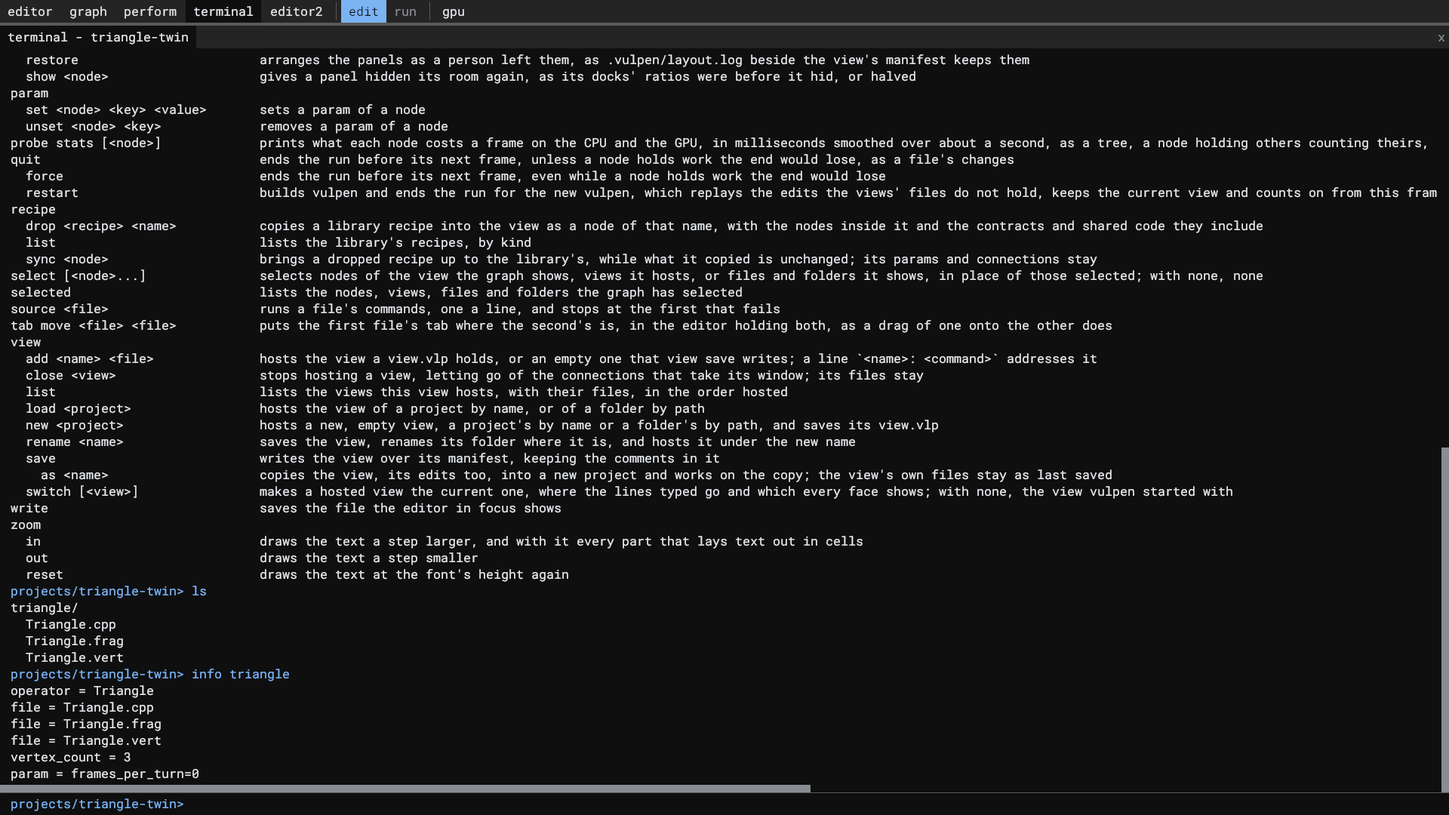
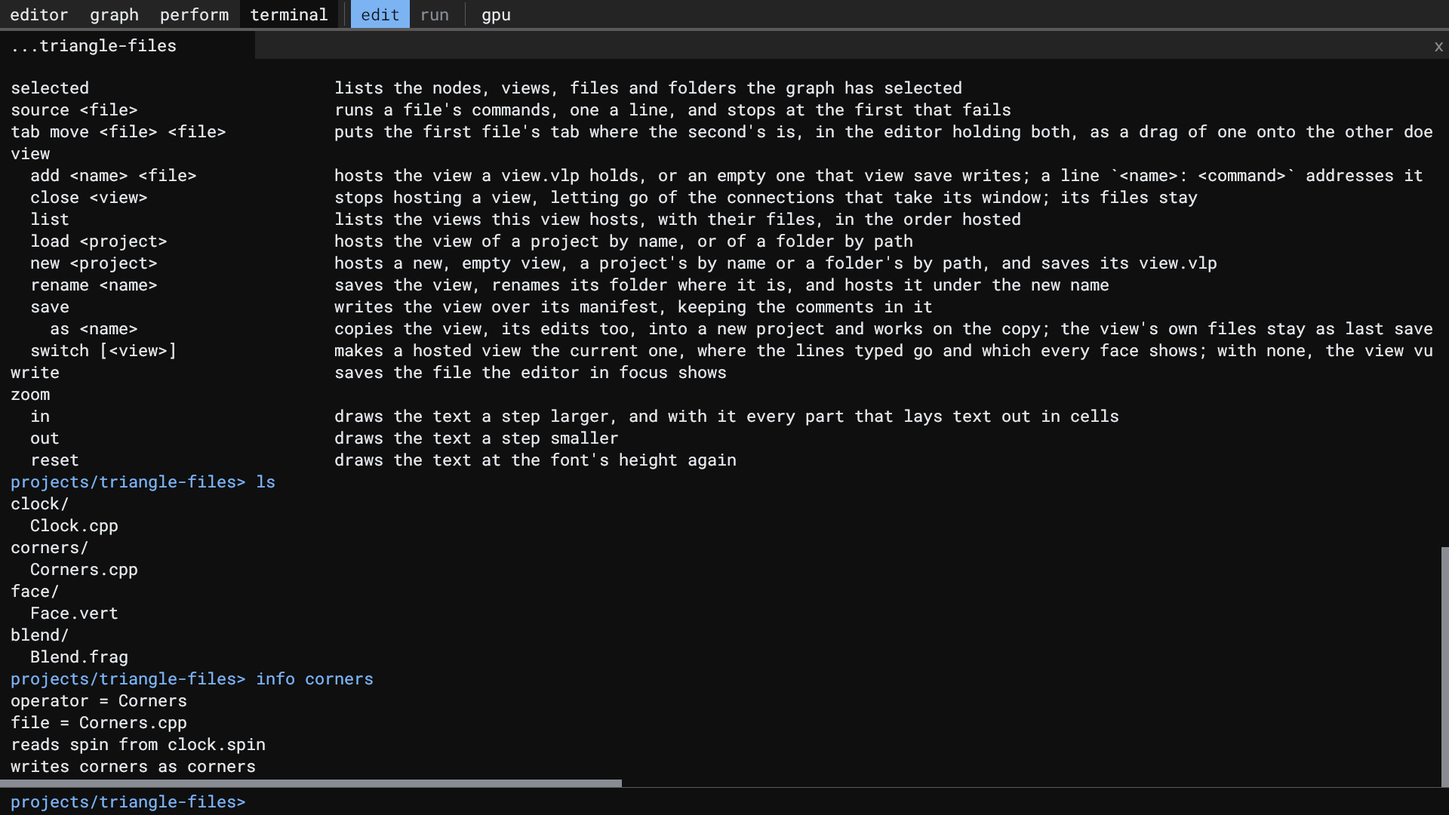
readme: the cinematic design, with a dive through Vulpen's own graph
The README leads with a wide cover of the ide, a node's C++ beside its
project's graph and what it draws, then three tiles, the graph, a shader
and the terminal, a quick start with what Vulpen needs, and the
language, the ide, the cli, building and testing, the details folded
away. A dive through the repository in the graph, eight levels in one
animated PNG, shows that the graph opens any folder. Its pictures are
four runs of update-readme-images.py, each at the size and text zoom
that read in GitHub's column: 2400 by 860 for the cover and the dive,
1200 by 1200 for the tiles, 1920 by 1080 for the rest; an animation's
frames show in it alone. The eleven pictures only the old README used
go. LOC.md and performance.md as the release build left them. Checked
by the debug and release builds, ctest 9 of 9 headless, the script run
a second time, which wrote nothing, and every link of the README.

Changed region(s): [[0.0, 0.0, 1.0, 1.0], [0.9688, 0.55, 1.0, 0.6722], [0.3438, 0.7028, 0.375, 0.7333]]

diff --git a/src/tools/update-readme-images.py b/src/tools/update-readme-images.py
@@ -59,7 +59,8 @@ class Run:
 
 @dataclass(frozen=True)
 class Animation:
-    """Pictures one run took, joined into an animated PNG that loops, each shown delay_ms."""
+    """Pictures one run took, joined into an animated PNG that loops, each shown delay_ms;
+    they show there alone, as no file of their own."""
     frames: tuple[str, ...]
     delay_ms: int
 
@@ -83,51 +84,87 @@ def graph(folder: str) -> list[str]:
     return [f"open {folder}", "ide: focus"]
 
 
+def zoom(steps: int) -> list[str]:
+    """The text a step larger each, 1.1 times, as control and = draw it."""
+    return ["ide: zoom in"] * steps
+
+
+def ratio(split: str, value: float) -> list[str]:
+    """The share of a dock its first half takes: ide.dock's the panels over the terminal,
+    ide.top's the editor beside the rest, ide.side's the graph over the Perform panel."""
+    return [f"ide: param set ide.{split}.split ratio {value}"]
+
+
+def panels(verb: str, *names: str) -> list[str]:
+    """panel hide, show or maximize, which a second maximize gives back, of each panel."""
+    return [f"ide: panel {verb} ide.{name}-panel" for name in names]
+
+
+def park(width: int) -> list[str]:
+    """The pointer at the menubar's empty end, so no tooltip shows for what it was over."""
+    return [f"input pointer {width - 4} 2"]
+
+
+def scroll(x: int, y: int, rows: int, width: int) -> list[str]:
+    """The wheel turned over a point of a window width pixels wide: a text scrolls down
+    by rows below 0."""
+    return [f"input pointer {x} {y}", f"input wheel 0 {rows}", *park(width)]
+
+
 CLEAR = ["input key down control", "input key down l", "input key up l",
          "input key up control"]
+INSIDE_IDE = ["ide: param unset ide.graph.relations folder", "view switch ide",
+              "ide: param set ide.graph.graph inside ide", "ide: focus"]
 # Each picture, by its file's name, and the lines that make it, from where the scene
 # before left the ide. Whatever turns is held still, and each ends with no focus, so no
 # caret blinks: the picture is the same at whatever frame it is taken. No line shows an
-# absolute path, which names the copy, a new folder each run.
-SCENES = {
-    # The whole ide: a node's C++, the project's graph, what it draws, the lines typed.
-    "ide": [*CLEAR, *typed("view load triangle-files"),
-            *typed("param set clock frames_per_turn 0"), *typed("open Corners.cpp"),
-            *typed("info corners"), "ide: zoom in", "ide: zoom in", "ide: focus"],
-    # The project presented, in the whole window.
-    "perform": ["ide: mode perform"],
-    # The manifest beside the graph it makes.
-    "manifest": ["ide: mode edit", "ide: open projects/triangle-files/view.vlp",
-                 "ide: panel hide ide.perform-panel", "ide: panel hide ide.terminal-panel",
-                 "ide: focus"],
-    # One view's C++ and GLSL, in two editors side by side.
-    "languages": ["ide: close all projects/triangle-files/view.vlp",
-                  "view load triangle-twin", "param set triangle frames_per_turn 0",
-                  "open Triangle.cpp", "open Triangle.vert",
-                  "ide: panel move ide.editor-panel ide.graph-panel left",
-                  "ide: panel hide ide.graph-panel", "ide: panel hide ide.perform-panel",
-                  "ide: focus"],
-    # The command line, as the cli runs it in a terminal.
-    "cli": ["ide: panel maximize ide.terminal-panel", "ide: focus ide.terminal.command-line",
-            *CLEAR, *typed("help"), *typed("ls"), *typed("info triangle"), "ide: focus"],
-    # The graph of each part of the repository, given the window, which a second
-    # maximize would give back.
-    "graph-repository": ["ide: panel maximize ide.graph-panel", *graph("./")],
-    "graph-src": graph("src/"),
-    "graph-baseclasses": graph("src/baseclasses/"),
-    "graph-runtime": graph("src/runtime/"),
-    "graph-library": graph("src/runtime/recipes/library/"),
-    "graph-parts": graph("src/runtime/recipes/library/parts/"),
-    "graph-components": graph("src/runtime/recipes/library/components/"),
-    "graph-tools": graph("src/tools/"),
-    "graph-projects": graph("projects/"),
-    # The apps are views too: the cli's nodes, and the ide's inside its own graph.
-    "graph-cli": ["ide: param unset ide.graph.relations folder", "view switch",
-                  "ide: param set ide.graph.graph inside cli", "ide: focus"],
-    "graph-ide": ["view switch ide", "ide: param set ide.graph.graph inside ide",
-                  "input pointer 800 520", *["input wheel 0 1"] * 6, "ide: focus"],
+# absolute path, which names the copy, a new folder each run. The sizes and the text's
+# zoom are for the README's column, about 880 pixels wide, so the text reads there.
+# The cover: a node's C++ beside the project's graph and what it draws, wide.
+HERO = {
+    "hero": [*CLEAR, *typed("view load triangle-files"),
+             *typed("param set clock frames_per_turn 0"), *typed("open Corners.cpp"),
+             *typed("info corners"), *zoom(7), *panels("hide", "terminal"),
+             *ratio("top", 0.5), *ratio("side", 0.46), *scroll(500, 400, -6, 2400),
+             "ide: focus"],
 }
-README = Pictures(IMAGES, (Run(SCENES),))
+# Three squares side by side: the graph, a shader and the terminal, each given the window.
+TILES = {
+    "tile-graph": [*CLEAR, "view load triangle-files", "param set clock frames_per_turn 0",
+                   *zoom(9), *panels("maximize", "graph"), "ide: focus"],
+    "tile-code": [*panels("maximize", "graph"), "open Face.vert",
+                  *panels("maximize", "editor"), "ide: focus"],
+    "tile-terminal": [*panels("maximize", "editor"), *panels("maximize", "terminal"),
+                      "ide: focus ide.terminal.command-line", *typed("ls"),
+                      *typed("info face"), "ide: focus"],
+}
+# The sections' pictures: the manifest beside its graph, the project in the whole window,
+# the command line, the repository's top in the graph, and the ide inside its own graph.
+DETAILS = {
+    "manifest": [*CLEAR, "view load triangle-files", "param set clock frames_per_turn 0",
+                 *zoom(5), "open", *panels("hide", "perform", "terminal"), "ide: focus"],
+    "perform": ["ide: mode perform"],
+    "cli": ["ide: mode edit", *panels("maximize", "terminal"),
+            "ide: focus ide.terminal.command-line", *CLEAR, *typed("help"), *typed("ls"),
+            *typed("info corners"), "ide: focus"],
+    "graph-repository": [*panels("maximize", "terminal", "graph"), *graph("./")],
+    "graph-ide": INSIDE_IDE,
+}
+# A dive through the repository in the graph, a level a frame, down to the part that draws
+# the graph, and the ide inside its own graph.
+DIVE = {
+    "level-0": [*zoom(4), *panels("maximize", "graph"), *graph("./")],
+    "level-1": graph("src/"),
+    "level-2": graph("src/runtime/"),
+    "level-3": graph("src/runtime/recipes/"),
+    "level-4": graph("src/runtime/recipes/library/"),
+    "level-5": graph("src/runtime/recipes/library/parts/"),
+    "level-6": graph("src/runtime/recipes/library/parts/graph/"),
+    "level-7": INSIDE_IDE,
+}
+README = Pictures(IMAGES, (Run(HERO, size="2400x860"), Run(TILES, size="1200x1200"),
+                           Run(DETAILS), Run(DIVE, size="2400x860")),
+                  {"dive": Animation(tuple(DIVE), 2200)})
 
 
 def copy_tree(into: Path) -> None:
@@ -247,8 +284,11 @@ def write(binary: Path, pictures: Pictures) -> None:
     for name, animation in pictures.animations.items():
         taken[name] = animated([taken[frame] for frame in animation.frames],
                                animation.delay_ms)
+    frames = {frame for animation in pictures.animations.values() for frame in animation.frames}
     pictures.folder.mkdir(parents=True, exist_ok=True)
     for name, data in taken.items():
+        if name in frames:
+            continue  # it shows in its animation alone
         image = pictures.folder / f"{name}.png"
         if image.exists() and image.read_bytes() == data:
             continue

diff --git a/README.md b/README.md
@@ -1,97 +1,136 @@
-# Vulpen
-<div align="center">
-<img src="docs/images/logos/vulkan.svg" alt="Vulkan" width="140" align="middle" />
-&nbsp;&nbsp;&nbsp;&nbsp;
-<img src="docs/images/logos/cmake.svg" alt="CMake" width="46"  align="middle" />
-&nbsp;&nbsp;&nbsp;&nbsp;
-<img src="docs/images/logos/cplusplus.svg" alt="C++" width="46" align="middle" />
-&nbsp;&nbsp;&nbsp;&nbsp;
-<img src="docs/images/logos/GLSL_Logo_(Unofficial).svg" alt="GLSL" width="70" align="middle" />
-</div>
+<h1 align="center">Vulpen</h1>
 
-![The Vulpen ide: a node's C++ in the editor, the project's nodes and connections in the graph, the triangle they draw in the Perform panel, and the lines typed in the terminal](docs/images/ide.png)
+<p align="center">
+  <b>Write C++ and GLSL side by side. Wire them as a graph. Change them while they run.</b><br />
+  A Vulkan engine for real-time visuals and GPU compute, whose programs are nodes and connections.
+</p>
 
-Vulpen is a fractal basis for anything that benefits from high performance computing or real-time visuals. C++ and GLSL are written side by side, without worrying about moving data from one to the other, and Vulpen attaches easily to existing projects for visual generation and parallel computation.
+<p align="center">
+  <a href="#quick-start">Quick start</a> ·
+  <a href="#what-you-get">What you get</a> ·
+  <a href="#the-language">The language</a> ·
+  <a href="#the-ide">The ide</a> ·
+  <a href="#the-cli">The cli</a> ·
+  <a href="#build-and-test">Build and test</a>
+</p>
 
-## The language: nodes and connections
+![The Vulpen ide: a node's C++ on the left, the project's graph and the triangle it draws on the right](docs/images/hero.png)
 
-A project is a view: one manifest, `view.vlp`, and a folder for each node. A node is a C++ class, shaders, or both, and a connection carries a GPU buffer, an image or a C++ object from one node's port to the others. The graph is the manifest as it runs.
+<p align="center">
+  <img src="docs/images/logos/vulkan.svg" alt="Vulkan" height="34" align="middle" />
+  &nbsp;&nbsp;&nbsp;
+  <img src="docs/images/logos/cplusplus.svg" alt="C++" height="34" align="middle" />
+  &nbsp;&nbsp;&nbsp;
+  <img src="docs/images/logos/GLSL_Logo_(Unofficial).svg" alt="GLSL" height="34" align="middle" />
+  &nbsp;&nbsp;&nbsp;
+  <img src="docs/images/logos/cmake.svg" alt="CMake" height="34" align="middle" />
+</p>
 
-![The manifest of the triangle-files example beside the graph it makes](docs/images/manifest.png)
-*[`projects/triangle-files`](projects/triangle-files): every file a node. `clock` hands the turn to `corners` as a C++ object, `corners` writes the corners for the GPU, `face` places them and `blend` colors the pixels between them. What two nodes share is a contract in `contracts/`, a GLSL struct or a C++ header.*
-
-- **C++ and GLSL meet by name.** A node's C++ asks for its shaders' values, buffers and images by the names the shaders give them, and the loader checks each against SPIR-V reflection before the first frame, so a mismatch fails at load, naming its cause.
-- **Barriers come from the graph.** Each node declares what it reads and writes, and Vulpen places the Vulkan barriers between passes.
-- **Data stays on the GPU** from node to node, until C++ reads it back.
-- **A small manifest language.** A few words, each with a closed set of values; a bigger recipe of the library uses smaller ones and connects them, never copying their code.
-
-![Triangle.cpp and Triangle.vert of the triangle-twin example in two editors side by side](docs/images/languages.png)
-*[`projects/triangle-twin`](projects/triangle-twin): the operator in C++ and the vertex shader in GLSL both include `shared/Triangle.h`, which holds the triangle's corners, colors and turn once, in the words the two languages share.*
-
-## The ide
-
-`./run.sh --ide` opens the ide: an editor, the graph, the Perform panel with the project running in it, and a terminal, each a panel a drag of its tab moves. A press on a box opens its code in the editor, to change while the project runs; `f1` gives the project the whole window.
-
-![The triangle-files example in perform mode, filling the window](docs/images/perform.png)
-*Perform mode: the project presented in the whole window, as it would run on its own.*
-
-## The graph
-
-The graph shows a view's nodes and connections, a level at a time, or any folder `open` names, with what links its files, a layer each: flow, a connection; structure, a recipe a node uses; code, an include; build, a CMake file naming a file; docs, a document linking a file or a file citing an id the principles or requirements define; engine, what the engine carries from a node's C++ to its shaders. Zooming into a box goes inside it, and zooming out goes up a level. Here is Vulpen in its own graph, part by part:
+## What you get
 
 <table>
 <tr>
-<td width="50%"><img src="docs/images/graph-repository.png" alt="The repository's top in the graph" /><br /><sub>The repository</sub></td>
-<td width="50%"><img src="docs/images/graph-src.png" alt="The src folder in the graph" /><br /><sub><code>src/</code>: the baseclasses and the runtime, the libraries they build on, the tools and <code>main.cpp</code></sub></td>
-</tr>
-<tr>
-<td><img src="docs/images/graph-baseclasses.png" alt="The baseclasses in the graph" /><br /><sub><code>src/baseclasses/</code>: the GPU layer, a library of its own</sub></td>
-<td><img src="docs/images/graph-runtime.png" alt="The runtime in the graph" /><br /><sub><code>src/runtime/</code>: the manifest, the views, the commands, the ports and live code, and the recipes</sub></td>
-</tr>
-<tr>
-<td><img src="docs/images/graph-library.png" alt="The library in the graph" /><br /><sub>The library: contracts, parts and components</sub></td>
-<td><img src="docs/images/graph-parts.png" alt="The library's parts in the graph" /><br /><sub>The parts, each one job's code</sub></td>
-</tr>
-<tr>
-<td><img src="docs/images/graph-components.png" alt="The library's components in the graph" /><br /><sub>The components, parts used together</sub></td>
-<td><img src="docs/images/graph-tools.png" alt="The tools in the graph" /><br /><sub><code>src/tools/</code>: the gates, the statistics, these pictures and the tests</sub></td>
-</tr>
-<tr>
-<td><img src="docs/images/graph-projects.png" alt="The example projects in the graph" /><br /><sub>The example projects</sub></td>
-<td><img src="docs/images/graph-cli.png" alt="The cli's nodes in the graph" /><br /><sub>The cli's nodes, with the snapshot the picture script adds by a command</sub></td>
+<td width="33%" valign="top">
+<img src="docs/images/tile-graph.png" alt="The graph of the triangle-files example: clock, corners, face and blend" /><br />
+<b>Programs are graphs.</b> A small manifest names the nodes and the connections between them. The graph is that manifest as it runs, and Vulpen places every Vulkan barrier from it.
+</td>
+<td width="33%" valign="top">
+<img src="docs/images/tile-code.png" alt="Face.vert, a vertex shader of the triangle-files example" /><br />
+<b>C++ and GLSL meet by name.</b> A node's C++ asks for its shaders' values, buffers and images by the names the shaders give them, checked against SPIR-V reflection before the first frame.
+</td>
+<td width="33%" valign="top">
+<img src="docs/images/tile-terminal.png" alt="The terminal: ls and info face on the triangle-files example" /><br />
+<b>Every action is a command.</b> The ide's presses and drags included: anything it does can be typed, scripted with <code>--source</code>, or replayed from a log, with no window at all.
+</td>
 </tr>
 </table>
 
-The ide is a view too, made of the library's recipes as any project is, panels, splits, a text area, the graph and a terminal, so it shows in its own graph, and Vulpen is edited with Vulpen.
+## Quick start
+
+```bash
+git clone https://github.com/CorrelateVisuals/Vulpen.git
+cd Vulpen
+./run.sh                 # builds the debug preset and opens the ide
+```
+
+In the ide's terminal, type `view load triangle-files`, then double-click a file in the graph to open it. Save a C++ or GLSL file while it runs and the running project swaps the change in. <kbd>F1</kbd> gives the project the whole window.
+
+> [!NOTE]
+> Vulpen needs a GPU and driver with Vulkan 1.2, descriptor indexing and buffer device address. On Windows, run `.\run.ps1` from PowerShell.
+
+<details>
+<summary><b>Prerequisites</b></summary>
+
+- CMake 3.24 or newer, a C++20 compiler (GCC or Clang; MSVC on Windows) and Python 3
+- The Vulkan headers and loader, `glslangValidator` and `spirv-val`: the [LunarG Vulkan SDK](https://vulkan.lunarg.com/), or your distribution's packages
+- On Linux, the X11 and Wayland headers that the bundled GLFW builds against
+
+On Debian and Ubuntu:
+
+```bash
+sudo apt install build-essential cmake python3 libvulkan-dev glslang-tools spirv-tools \
+                 libwayland-dev libxkbcommon-dev xorg-dev
+```
+
+GLFW, GLM, stb, tinyobjloader and the Vulkan Memory Allocator come with the repository, pinned in [`src/external-libraries/`](src/external-libraries) ([licenses](docs/licenses/README.md)).
+
+</details>
+
+## The language
+
+A project is a view: one manifest, `view.vlp`, and a folder for each node. A node is a C++ class, shaders, or both, and a connection carries a GPU buffer, an image or a C++ object from one node's port to the others.
+
+![The manifest of the triangle-files example beside the graph it makes](docs/images/manifest.png)
+
+- **Barriers come from the graph.** Each node declares what it reads and writes, and Vulpen places the Vulkan barriers between passes.
+- **Data stays on the GPU** from node to node, until C++ reads it back.
+- **Contracts, not copies.** What two nodes share is a contract in `contracts/`: a GLSL struct, or a C++ header both languages read.
+- **A small, closed manifest language.** A few words, each with a closed set of values; a bigger recipe of the library uses smaller ones and connects them, never copying their code.
+
+The graph opens any folder the same way. Here is Vulpen in its own graph, from the repository's top down to the part that draws the graph:
+
+![A dive through Vulpen in its own graph: the repository, src, the runtime, the recipes, the library, its parts, the graph part, and the ide inside its own graph](docs/images/dive.png)
+
+## The ide
+
+`./run.sh` opens the ide: an editor, the graph, the Perform panel with the project running in it, and a terminal. Each is a panel that a drag of its tab moves. Double-click a file in the graph to open it, and change it while the project runs.
+
+<details>
+<summary><b>Perform mode, the graph of a whole repository, and the ide inside its own graph</b></summary>
+
+![The triangle-files example in perform mode, filling the window](docs/images/perform.png)
+*Perform mode, <kbd>F1</kbd>: the project in the whole window, as it would run on its own.*
+
+![The repository's top in the graph, its folders and the relations between them](docs/images/graph-repository.png)
+*`open ./` shows any folder in the graph, with what links its files, a layer each: flow, structure, code, build, docs and engine.*
 
 ![The ide's own graph: its recipes and the wires between them](docs/images/graph-ide.png)
-*The ide inside its own graph: each box a recipe of the library, each wire a connection.*
+*The ide is a view too, made of the library's recipes, so Vulpen is edited with Vulpen.*
+
+</details>
 
 ## The cli
 
-`./run.sh --cli` runs the same command line at a terminal, with no window. Every action is a command with a text form, the ide's presses and drags included, so anything it does can be typed, run from a file with `--source`, or saved with `log save` and replayed to rebuild the same graph. Everything runs headless: batch compute, tests, scripts and agents need no display.
+`./run.sh --cli` runs the same command line at a terminal, with no window. Batch compute, tests, scripts and agents need no display, and a session saved with `log save` replays to the same graph.
 
 ![The terminal: help, then ls and info on a project](docs/images/cli.png)
-*`help` lists every command and what it does; `ls` shows a view as folders, and `info` a node's files, params and connections.*
 
-## Run
+## Build and test
 
-```bash
-./run.sh [--release] [--cli | --ide | --<project> | view.vlp] [arguments]     # Linux
-.\run.ps1 [--release] [--cli | --ide | --<project> | view.vlp] [arguments]    # Windows
-```
+| Command | What it does |
+| --- | --- |
+| `./run.sh` | builds and runs the cli hosting the ide (`--ide`, the default) |
+| `./run.sh --cli` | the command line alone, at the terminal |
+| `./run.sh --triangle` | one project of [`projects/`](projects) alone, in its own window |
+| `./run.sh --wave --log info` | headless compute: `wave` fills a buffer and `probe` prints it |
+| `./run.sh --release …` | the `release` preset, in place of `debug` |
+| `ctest --preset debug` | the tests, after a build; also `release`, `asan`, `tsan`, `gpu-validation` |
+| `src/tools/tests/nightly.sh` | every preset, the soak runs and the long fuzz |
 
-Configures, builds and runs the `debug` preset, or `release` with `--release`; the binary lands in `out/build/<preset>/`. `--cli` runs the cli alone, a prompt at the terminal; `--ide` runs the cli hosting the ide, a window; `--<project>` runs a project alone, of those the cli makes in `projects/`, as the example projects `wave` and `triangle`; and with no view named the scripts run the one their line `default=--ide` names.
+`--log error|warn|info|debug` sets how much a run says; each run keeps its log in `docs/logs/`, the newest 20.
 
-`--log error|warn|info|debug` sets how much the run says, the build included. The default, `warn`, prints only problems, and of a build that succeeds only its newest line, in place while it builds and gone once it is done; `debug` prints the build's output too. [`src/baseclasses/Log.h`](src/baseclasses/Log.h) lists what each level adds and what each `{tag}` marks, and a node's `log` word in the manifest sets the level of the lines about that node. Each run keeps what it printed in `docs/logs/`, which git ignores, the newest 20 runs, so a run on another machine leaves behind what went wrong, a failed build's output included.
+## Documentation
 
-`./run.sh --wave --log info` runs the example project `wave` headless; `./run.sh --triangle` opens a window and draws the classic triangle, whose corners and colors come from C++, and `out/build/debug/baseclasses/examples/triangle/triangle` draws one with the baseclasses alone, without the runtime. In the `debug` preset, save any C++ or GLSL of a view while it runs and the running view swaps in the change.
+[Principles](docs/architecture/principles.md) and [requirements](docs/architecture/requirements.md) decide every design; the [include map](docs/architecture/include-map.md) is the engine on one page. [Statistics](docs/statistics) keep the line counts, start-up times and soak results.
 
-## Test
-
-```bash
-ctest --preset debug                 # after a build; also release, asan, tsan, gpu-validation
-src/tools/tests/nightly.sh           # every preset, the soaks and the long fuzz
-```
-
-<sub>Every release build takes the pictures above anew: [`src/tools/update-readme-images.py`](src/tools/update-readme-images.py) replays the commands that make each, and the [`snapshot`](src/runtime/recipes/library/parts/snapshot) part saves the ide's window, with no window open.</sub>
+<sub>Every release build takes these pictures anew: [`src/tools/update-readme-images.py`](src/tools/update-readme-images.py) replays the commands that make each, and the [`snapshot`](src/runtime/recipes/library/parts/snapshot) part saves the ide's window, with no window open.</sub>

diff --git a/docs/statistics/LOC.md b/docs/statistics/LOC.md
@@ -11,9 +11,9 @@ Generated by [`src/tools/fetch-statistics.py`](../../src/tools/fetch-statistics.
 | GLSL | 83 | 1180 | 210 | 241 |
 | Manifest | 53 | 1059 | 386 | 278 |
 | PowerShell | 1 | 65 | 22 | 4 |
-| Python | 15 | 2413 | 140 | 335 |
+| Python | 15 | 2444 | 139 | 345 |
 | Shell | 2 | 76 | 25 | 4 |
-| **Total** | 286 | 27372 | 4590 | 3273 |
+| **Total** | 286 | 27403 | 4589 | 3283 |
 
 ## By folder
 
@@ -111,7 +111,7 @@ Generated by [`src/tools/fetch-statistics.py`](../../src/tools/fetch-statistics.
 | `src/runtime/recipes/library/parts/switch/` | 2 | 38 | 5 | 9 |
 | `src/runtime/recipes/library/parts/text/` | 4 | 1181 | 179 | 100 |
 | `src/runtime/recipes/library/parts/viewport/` | 2 | 21 | 5 | 6 |
-| `src/tools/` | 4 | 485 | 44 | 83 |
+| `src/tools/` | 4 | 516 | 43 | 93 |
 | `src/tools/gates/` | 3 | 321 | 18 | 66 |
 | `src/tools/tests/` | 11 | 1766 | 116 | 203 |
 | `src/tools/tests/mistakes/` | 1 | 96 | 36 | 27 |
@@ -139,4 +139,4 @@ Generated by [`src/tools/fetch-statistics.py`](../../src/tools/fetch-statistics.
 | `src/tools/tests/mistakes/sum/` | 1 | 12 | 0 | 3 |
 | `src/tools/tests/mistakes/take/` | 1 | 27 | 2 | 7 |
 | `src/tools/tests/mistakes/twin/` | 1 | 11 | 2 | 4 |
-| **Total** | 286 | 27372 | 4590 | 3273 |
+| **Total** | 286 | 27403 | 4589 | 3283 |

diff --git a/docs/statistics/performance.md b/docs/statistics/performance.md
@@ -4,5 +4,5 @@ Generated by [`src/tools/fetch-statistics.py`](../../src/tools/fetch-statistics.
 
 | System | CPU | GPU | Build | Startup to exit, median | Startup to exit, fastest | Binary size |
 | --- | --- | --- | --- | --: | --: | --: |
-| Linux | AMD Ryzen AI 7 350 w/ Radeon 860M | NVIDIA GeForce RTX 5070 Laptop GPU | `vulpen 838b3a8-dirty` | 1.05 ms | 0.54 ms | 2925.3 KiB |
+| Linux | AMD Ryzen AI 7 350 w/ Radeon 860M | NVIDIA GeForce RTX 5070 Laptop GPU | `vulpen e81a5f0-dirty` | 1.06 ms | 0.55 ms | 2925.3 KiB |
 | Windows | AMD Ryzen AI 7 350 w/ Radeon 860M | NVIDIA GeForce RTX 5070 Laptop GPU | `vulpen 2ddc4d7-dirty` | 8.04 ms | 7.38 ms | 683.0 KiB |
